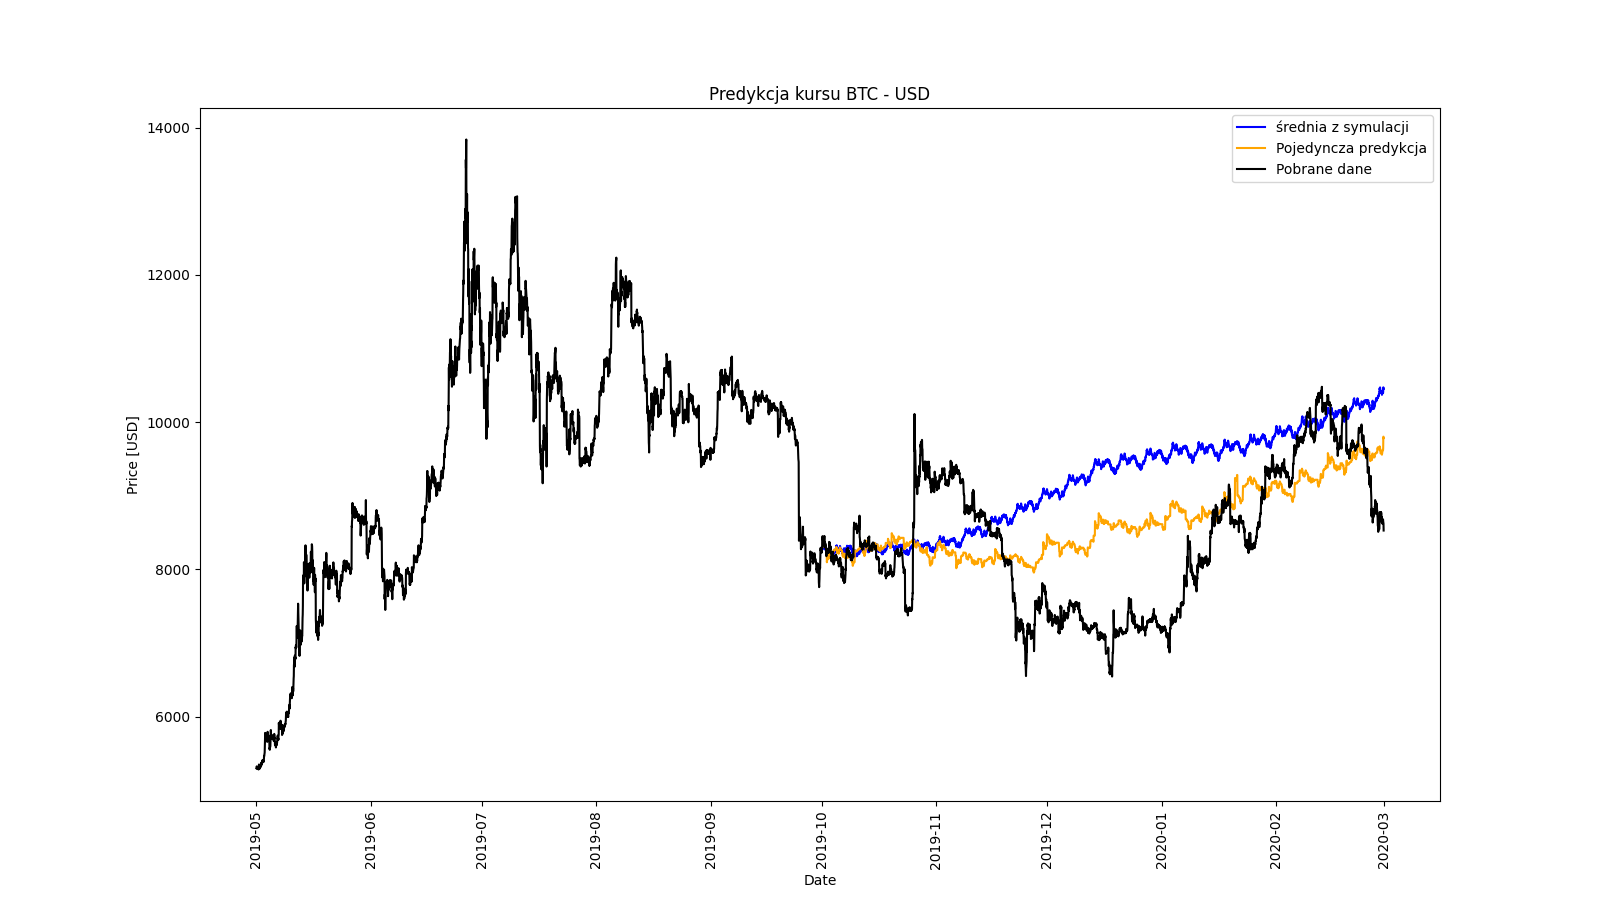
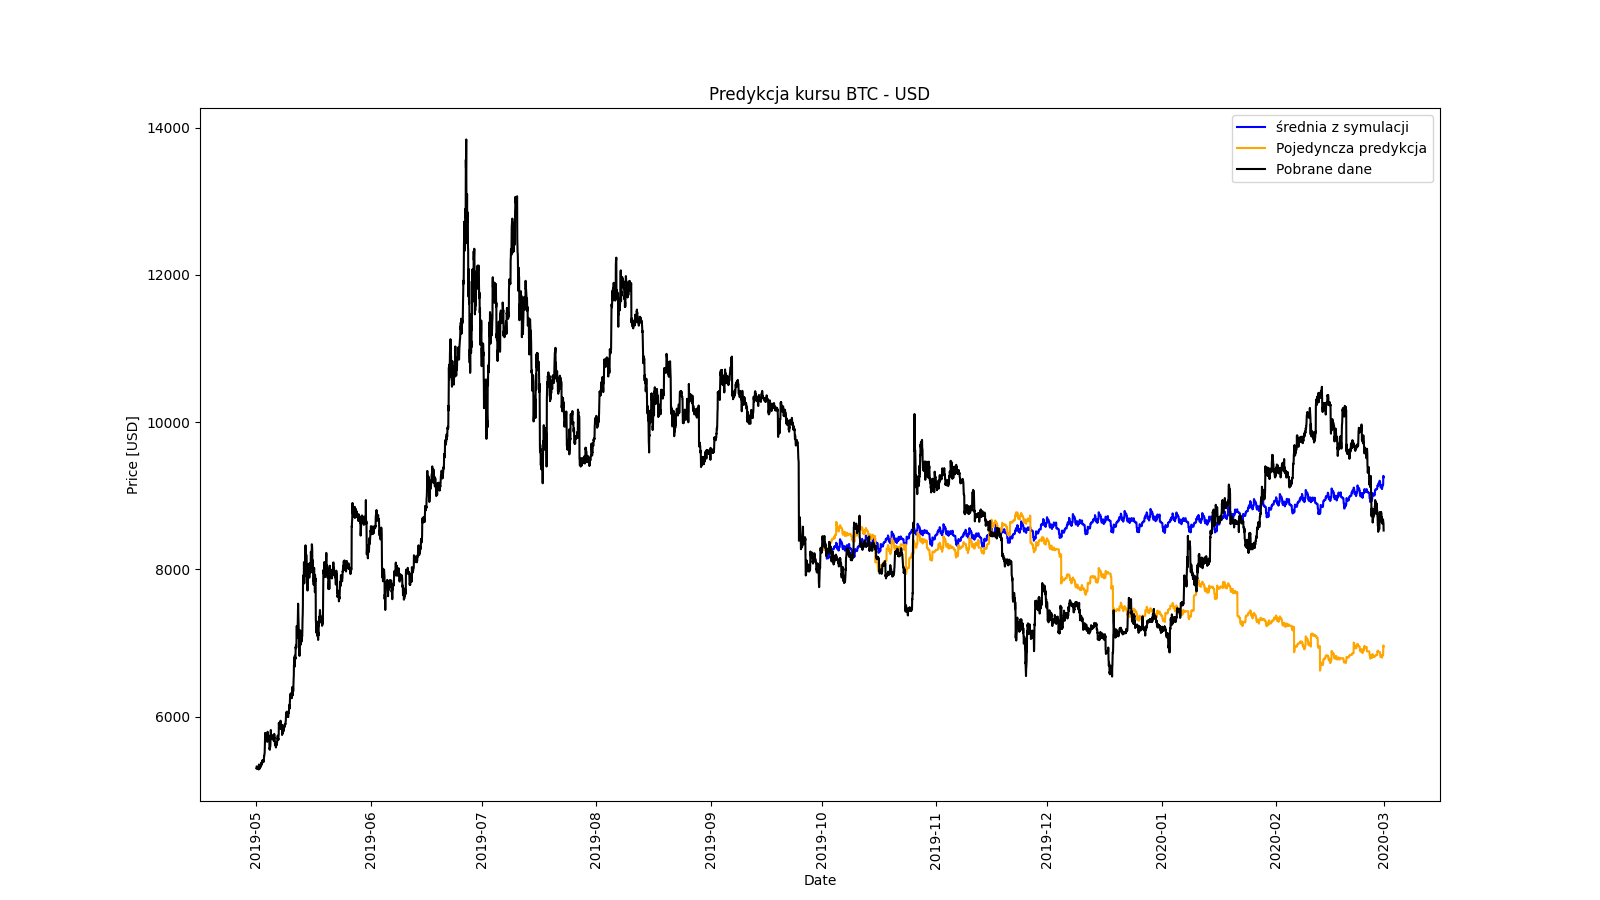
final change

diff --git a/main.py b/main.py
@@ -20,12 +20,12 @@ if __name__ == '__main__':
     df2 = df.iloc[split_index:, :]
     df2 = df2.reset_index(drop=True)
     print("Symulacja...")
-    for i in range(0, 100):
+    for i in range(0, 50):
         pos, a, delta = pfp.create_matrix(learning_set)
-        print('{}%'.format(i))
-        delta = pfp.change_matrix(pos / a, i / 100, delta)
+        print('{}%'.format((i + 1) * 100 / 50))
+        delta = pfp.change_matrix(pos / a, 0.6, delta)
         predictionmean = predictionmean.append(
-            pfp.predict(delta, df2.copy(), learning_set.iloc[-1].copy(), i / 100, int(np.ceil(len(df2.index) / 8)),
+            pfp.predict(delta, df2.copy(), learning_set.iloc[-1].copy(), 0.6, int(np.ceil(len(df2.index) / 30)),
                         learning_set.copy())[['price_close', 'time_close']])
     predictionmean = predictionmean.groupby('time_close').mean()
 
